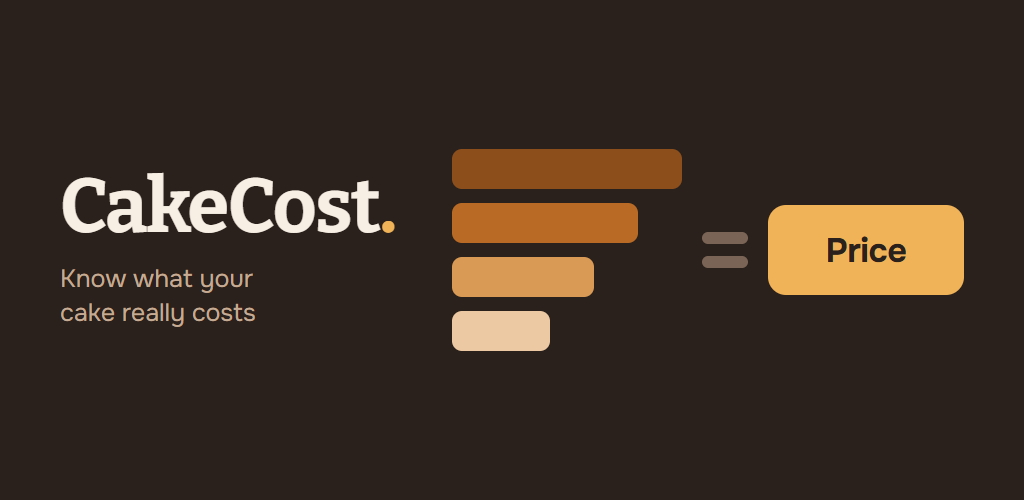
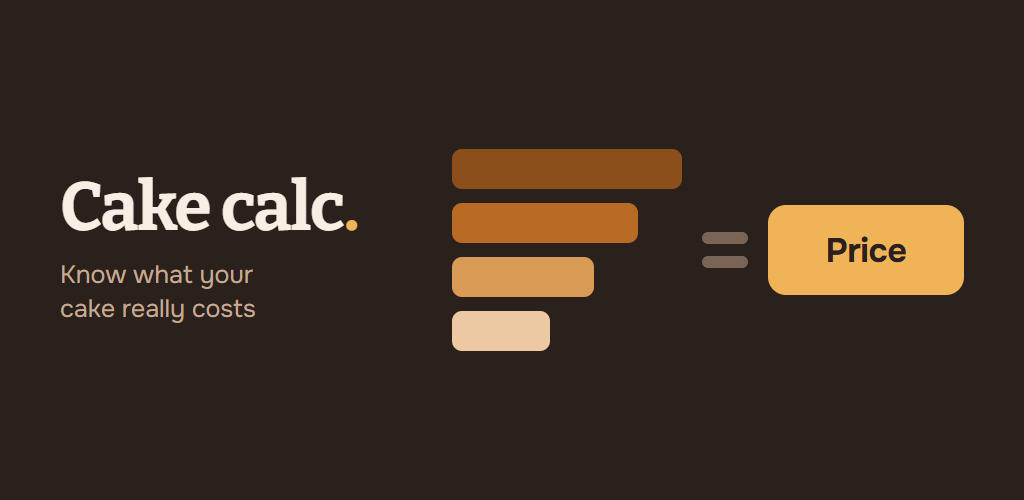
Call the app one name: Cake calc
The store listing said "Cake calc", the app's own wordmark said "CakeCost", and
the receipt sent to customers said a third thing depending on where you looked.
One name now, matching Google Play: the header, the launcher label, the page
title, the receipt footer in all five languages, the privacy policy and the
store banner.

The application id (com.gliderk.cakecalc) is untouched — it cannot change once
published, and it never needed to.

The RASP test asserted a single certificate hash, which was the placeholder;
it now checks that both hashes are real base64 SHA-256 values, since a
placeholder there means the integrity check verifies nothing.

Claude-Session: https://claude.ai/code/session_01DdcffURMSYkurkv6cM6vNu

Changed region(s): [[0.0625, 0.33, 0.4062, 0.48], [0.0625, 0.54, 0.25, 0.66]]

diff --git a/src/__tests__/unit/utils/rasp.test.ts b/src/__tests__/unit/utils/rasp.test.ts
@@ -55,7 +55,16 @@ describe('RASP Utils', () => {
       expect(config.androidConfig).toBeDefined()
       // Real application id, as registered in Google Play
       expect(config.androidConfig?.packageName).toBe('com.gliderk.cakecalc')
-      expect(config.androidConfig?.certificateHashes).toHaveLength(1)
+
+      // Two real signing hashes: the Play App Signing certificate and the upload
+      // key. The check is that these are actual base64 SHA-256 values — a
+      // placeholder means the integrity check verifies nothing, which is exactly
+      // how this shipped until now.
+      const hashes = config.androidConfig?.certificateHashes ?? []
+      expect(hashes).toHaveLength(2)
+      for (const hash of hashes) {
+        expect(hash).toMatch(/^[A-Za-z0-9+/]{43}=$/)
+      }
 
       expect(config.iosConfig).toBeDefined()
       expect(config.iosConfig?.appBundleIds).toBe('com.gliderk.cakecalc')

diff --git a/src/assets/theme.css b/src/assets/theme.css
@@ -1,5 +1,5 @@
 /* ===========================================================================
-   CakeCost — визуальная система «техкарта»
+   Cake calc — визуальная система «техкарта»
    ---------------------------------------------------------------------------
    Приложение считает деньги людям, которые зарабатывают руками: домашним
    кондитерам и небольшим пекарням. Отсюда две опоры оформления.

diff --git a/src/utils/receiptImageGenerator.ts b/src/utils/receiptImageGenerator.ts
@@ -85,7 +85,7 @@ export async function generateReceiptImage(
 
   const settings = customization?.settings
   const showWatermark = customization?.showWatermark ?? true
-  const watermarkText = customization?.watermarkText ?? 'Посчитано в приложении CakeCost'
+  const watermarkText = customization?.watermarkText ?? 'Посчитано в приложении Cake calc'
 
   // Get customization values or defaults
   const backgroundColor = settings?.backgroundColor ?? '#FFFFFF'

diff --git a/src/__tests__/unit/utils/receiptGenerator.test.ts b/src/__tests__/unit/utils/receiptGenerator.test.ts
@@ -58,7 +58,7 @@ describe('Receipt Generator', () => {
       expect(text).toContain('Вес: 2.5 кг')
       expect(text).toContain('Цена за кг: 1 800.00 ₽')
       expect(text).toContain('💰 ИТОГО: 4 500.00 ₽')
-      expect(text).toContain('Посчитано в приложении CakeCost')
+      expect(text).toContain('Посчитано в приложении Cake calc')
     })
 
     it('should format large numbers with spaces', () => {

diff --git a/src/App.vue b/src/App.vue
@@ -3,7 +3,7 @@
     <QLayout view="lHh Lpr lFf">
       <QHeader class="ct-header">
         <QToolbar class="ct-toolbar">
-          <QToolbarTitle class="ct-wordmark">CakeCost</QToolbarTitle>
+          <QToolbarTitle class="ct-wordmark">Cake calc</QToolbarTitle>
 
           <!-- Settings are not daily work, so they live here instead of taking
                a third of the navigation -->

diff --git a/src/utils/receiptGenerator.ts b/src/utils/receiptGenerator.ts
@@ -64,7 +64,7 @@ export function generateReceiptText(receipt: ReceiptData): string {
     '',
     `💰 ИТОГО: ${formatNumber(total)} ${currency}`,
     '',
-    'Посчитано в приложении CakeCost для кондитеров',
+    'Посчитано в приложении Cake calc для кондитеров',
     '[Ссылка на приложение]'
   ]
 

diff --git a/src/__tests__/unit/stores/receiptSettings.test.ts b/src/__tests__/unit/stores/receiptSettings.test.ts
@@ -304,7 +304,7 @@ describe('Receipt Settings Store', () => {
       settingsStore.isPro = false
 
       expect(receiptStore.shouldShowWatermark).toBe(true)
-      expect(receiptStore.watermarkText).toContain('CakeCost')
+      expect(receiptStore.watermarkText).toContain('Cake calc')
     })
 
     it('should NOT include watermark in Pro version', () => {

diff --git a/src/__tests__/unit/utils/purchases.test.ts b/src/__tests__/unit/utils/purchases.test.ts
@@ -33,7 +33,7 @@ vi.mock('@revenuecat/purchases-capacitor', async importOriginal => {
       {
         product: {
           identifier: 'cakecalc_pro',
-          title: 'CakeCost Pro',
+          title: 'Cake calc Pro',
           description: 'Unlock all features',
           price: '$4.99',
           priceString: '$4.99'

diff --git a/src/stores/receiptSettings.ts b/src/stores/receiptSettings.ts
@@ -47,7 +47,7 @@ export const useReceiptSettingsStore = defineStore('receiptSettings', () => {
   })
 
   const watermarkText = computed(() => {
-    return 'Посчитано в приложении CakeCost'
+    return 'Посчитано в приложении Cake calc'
   })
 
   // Helper: Check Pro access

diff --git a/index.html b/index.html
@@ -3,7 +3,7 @@
   <head>
     <meta charset="UTF-8">
     <meta name="viewport" content="width=device-width, initial-scale=1.0">
-    <title>CakeCost - Recipe Pricing Calculator</title>
+    <title>Cake calc - Recipe Pricing Calculator</title>
   </head>
   <body>
     <div id="app"></div>

diff --git a/capacitor.config.ts b/capacitor.config.ts
@@ -2,7 +2,7 @@ import type { CapacitorConfig } from '@capacitor/cli';
 
 const config: CapacitorConfig = {
   appId: 'com.gliderk.cakecalc',
-  appName: 'CakeCost',
+  appName: 'Cake calc',
   webDir: 'dist',
   plugins: {
     AdMob: {

diff --git a/src/utils/units.ts b/src/utils/units.ts
@@ -1,5 +1,5 @@
 /**
- * Unit conversion utilities for CakeCost application
+ * Unit conversion utilities for the Cake calc application
  * Handles conversions between purchase units and base units
  */
 
